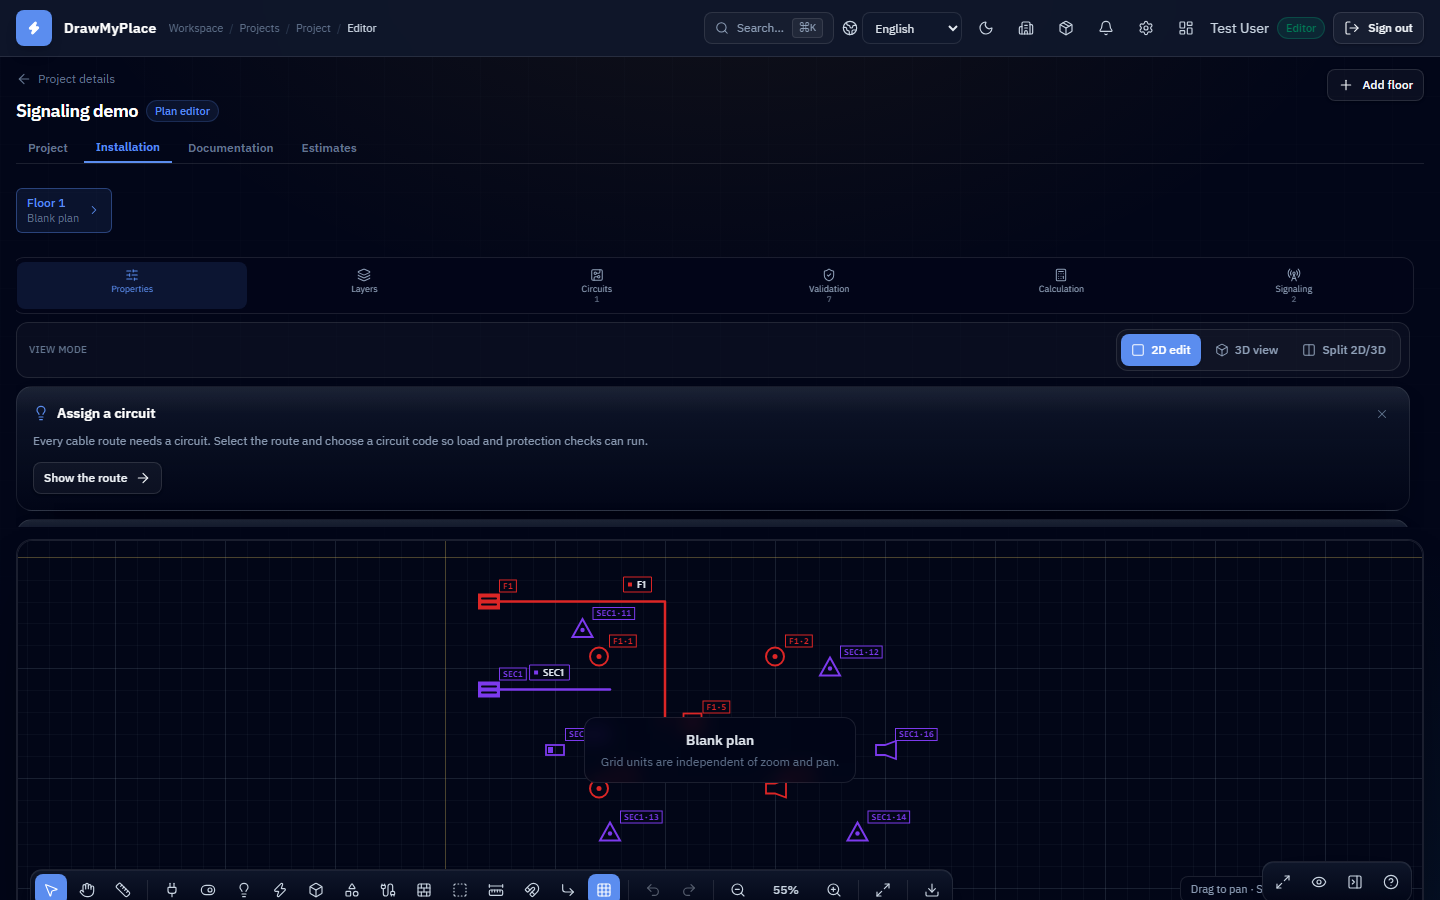
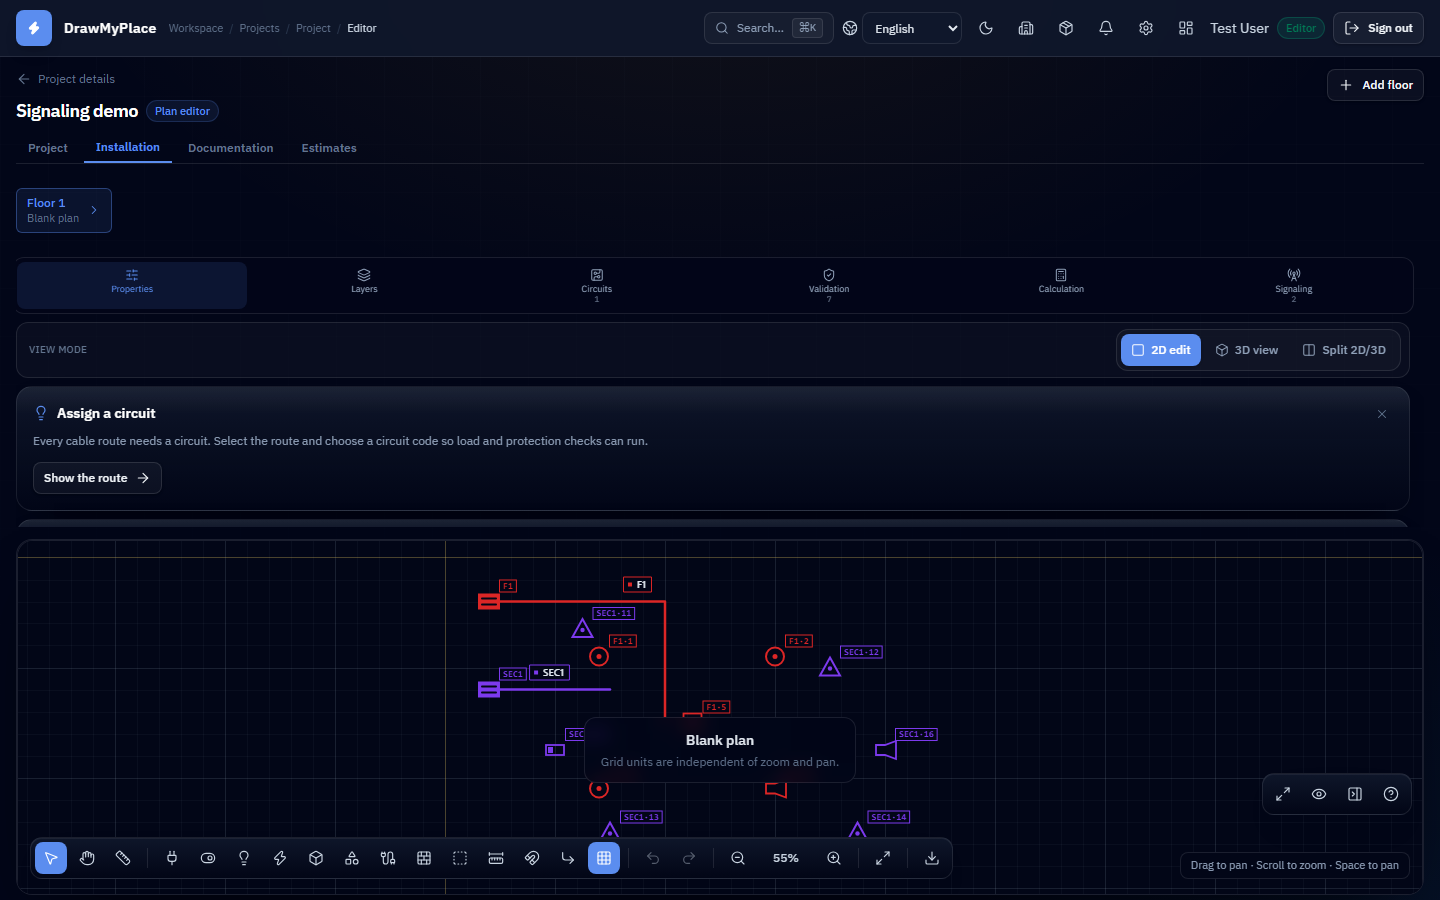
Polish editor bottom bar and remove redundant editor hints

Changed region(s): [[0.0, 0.9333, 0.6562, 1.0], [0.8125, 0.9333, 0.9688, 0.9956], [0.9062, 0.8711, 0.9688, 0.9022]]

diff --git a/apps/web/src/features/editor/plan-editor.tsx b/apps/web/src/features/editor/plan-editor.tsx
@@ -176,7 +176,6 @@ import {
   signalingSettings as selectSignalingSettings,
 } from './signaling';
 import { EditorTour } from '@/features/onboarding/editor-tour';
-import { NextStepHint, type NextStep } from '@/features/onboarding/next-step-hint';
 import { useOnboarding } from '@/features/onboarding/onboarding-context';
 import { POINT_SYMBOL_LIST, countByType } from './point-symbols';
 import {
@@ -2566,62 +2565,6 @@ export function PlanEditor({
     setToolRequest({ tool, pointType, nonce: Date.now() });
   }
 
-  const nextSteps: NextStep[] = [
-    ...(points.length > 0
-      ? [
-          {
-            id: 'first-route' as const,
-            titleKey: 'hint.firstRoute.title',
-            bodyKey: 'hint.firstRoute.body',
-            actionLabelKey: 'hint.firstRoute.action',
-            onAction: () => requestTool('route'),
-          },
-        ]
-      : []),
-    ...(routes.some((route) => !route.circuitId)
-      ? [
-          {
-            id: 'first-circuit' as const,
-            titleKey: 'hint.firstCircuit.title',
-            bodyKey: 'hint.firstCircuit.body',
-            actionLabelKey: 'hint.firstCircuit.action',
-            onAction: () => {
-              const route = routes.find((item) => !item.circuitId);
-              if (route) selectRoute(route.id);
-              document
-                .querySelector('[data-tour="circuits"]')
-                ?.scrollIntoView({ behavior: 'smooth', block: 'center' });
-            },
-          },
-        ]
-      : []),
-    {
-      id: 'command-palette',
-      titleKey: 'hint.palette.title',
-      bodyKey: 'hint.palette.body',
-      actionLabelKey: 'hint.palette.action',
-      onAction: () => setPaletteOpen(true),
-    },
-    ...(walls.length > 0 || rooms.length > 0 || routes.length > 0
-      ? [
-          {
-            id: 'three-d-view' as const,
-            titleKey: 'hint.threeD.title',
-            bodyKey: 'hint.threeD.body',
-            actionLabelKey: 'hint.threeD.action',
-            onAction: () => setViewMode('3d'),
-          },
-        ]
-      : []),
-    {
-      id: 'documentation',
-      titleKey: 'hint.docs.title',
-      bodyKey: 'hint.docs.body',
-      actionLabelKey: 'hint.docs.action',
-      href: `/app/projects/${projectId}/documentation`,
-    },
-  ];
-
   function focusRoom(roomId: string) {
     const room = rooms.find((item) => item.id === roomId);
 
@@ -3292,7 +3235,6 @@ export function PlanEditor({
               ]}
             />
           </div>
-          <NextStepHint steps={nextSteps} />
 
 <div data-sidebar-tab="properties">
           <RoomNavigator

diff --git a/apps/web/src/features/editor/editor-canvas.tsx b/apps/web/src/features/editor/editor-canvas.tsx
@@ -2930,7 +2930,7 @@ export function EditorCanvas({
       ) : null}
 
       {readOnly ? null : (
-      <div data-tour="editor-toolbar" className="editor-toolbar absolute bottom-20 left-3 flex flex-wrap items-center gap-1 rounded-xl p-1">
+      <div data-tour="editor-toolbar" className="editor-toolbar absolute bottom-24 left-3 flex flex-wrap items-center gap-1 rounded-xl p-1">
         <button
           type="button"
           title={t('editor.select')}
